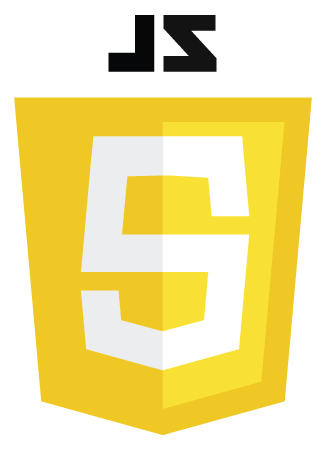
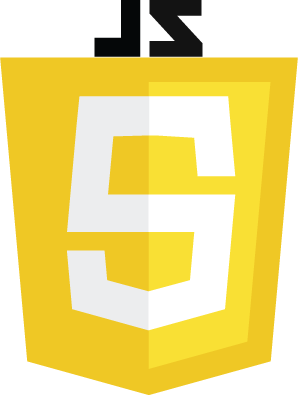
Resized images, created stylesheet

Changed region(s): [[0.0, 0.0, 1.0, 1.0], [0.4832, 0.7291, 0.5134, 0.7595], [0.4228, 0.6987, 0.453, 0.7291]]

diff --git a/PersonalWebsite/index.html b/PersonalWebsite/index.html
@@ -12,6 +12,7 @@
 	<!-- Latest compiled JavaScript -->
 	<script src="https://maxcdn.bootstrapcdn.com/bootstrap/3.3.7/js/bootstrap.min.js"></script> 
 	<meta name="viewport" content="width=device-width, initial-scale=1">
+	<link rel="stylesheet" href="styles.css">
 </head>
 
 <body>
@@ -30,41 +31,41 @@
 	</div>
 
 	<div class="container-fluid" id="Logos">
-		<div class="row">
-			<div class="col-md-4 col-sm-1">
+		<div class="row text-center">
+			<div class="col-md-4 col-sm-9">
 			<div class="text-center">
-			<img class="img-responsive" src="img/html5.png" alt="HTML5">
+			<img class="img-responsive weblogo" src="img/html5.png" alt="HTML5">
 			</div>
 			</div>
 
-			<div class="col-md-4 col-sm-1">
+			<div class="col-md-4 col-sm-9">
 			<div class="text-center">
-			<img class="img-responsive" src="img/css3.png" alt="CSS">
+			<img class="img-responsive weblogo" src="img/css3.png" alt="CSS">
 			</div>
 			</div>
 
-			<div class="col-md-4 col-sm-1">
+			<div class="col-md-4 col-sm-9">
 			<div class="text-center">
-			<img class="img-responsive" src="img/JS2.png" alt="JavaScript">
+			<img class="img-responsive weblogo" src="img/JS2.png" alt="JavaScript">
 			</div>
 			</div>
 		</div>
 
 		<div class="row">
-			<div class="col-md-6 col-sm-1">
+			<div class="col-md-6 col-sm-9">
 			<div class="text-center">
 			<img class="img-responsive" src="img/java.png" alt="java">
 			</div>
 			</div>
 
-			<div class="col-md-6 col-sm-1">
+			<div class="col-md-6 col-sm-9">
 			<div class="text-center">
 			<img class="img-responsive" src="img/cpp.png" alt="C++">
 			</div>
 			</div>
 		</div>
 		<div class="row">
-			<div class="col-md-12 col-sm-1">
+			<div class="col-md-12 col-sm-9">
 			<div class="text-center">
 			<img class="img-responsive" src="img/SQL.png" alt="SQL">
 			</div>

diff --git a/PersonalWebsite/styles.css b/PersonalWebsite/styles.css
@@ -1,0 +1,10 @@
+body {
+
+}
+
+#weblogo {
+	border: solid;
+}
+
+
+
